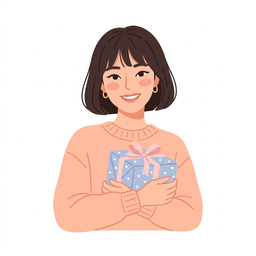
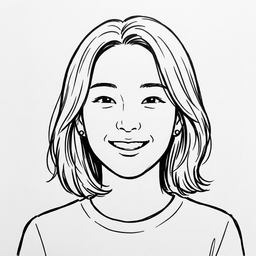
fix: 큐레이터 성별 적합성 검증 + Clair→Owen 교체
- 여자친구 선물 콘텐츠에 여성 큐레이터(Clair) 배정 오류 수정 → Owen(남성)으로 교체
- editorial 톤도 Owen 스타일로 수정
- orchestrator/theme-planner에 성별 적합성 규칙 추가:
  - 여자친구 선물 → 남성 큐레이터만
  - 남자친구 선물 → 여성 큐레이터만
  - 위반 시 자동 재배정

diff --git a/scripts/generate-curator-profiles.ts b/scripts/generate-curator-profiles.ts
@@ -35,7 +35,7 @@ const CURATORS: CuratorInfo[] = [
     gender: 'male',
     age: 'early 30s',
     personality: '꼼꼼한 리서처',
-    visualHint: 'neat short hair, glasses, smart casual outfit with a collared shirt, holding a tablet, analytical and organized look',
+    visualHint: 'neat short hair, wearing glasses, slight smile, clean-shaven',
   },
   {
     id: 'clair',
@@ -43,7 +43,7 @@ const CURATORS: CuratorInfo[] = [
     gender: 'female',
     age: 'mid 20s',
     personality: '센스있는 선물러',
-    visualHint: 'stylish bob hair, warm smile, wearing a soft knit sweater, holding a wrapped gift box, cheerful and fashionable',
+    visualHint: 'bob cut hair, bright smile, small earrings',
   },
   {
     id: 'james',
@@ -51,7 +51,7 @@ const CURATORS: CuratorInfo[] = [
     gender: 'male',
     age: 'early 40s',
     personality: '넉넉한 형/선배',
-    visualHint: 'well-groomed short hair, slight beard, wearing a navy blazer over turtleneck, confident and mature, warm expression',
+    visualHint: 'short hair, short beard, confident warm expression, mature look',
   },
   {
     id: 'hana',
@@ -59,7 +59,7 @@ const CURATORS: CuratorInfo[] = [
     gender: 'female',
     age: 'mid 30s',
     personality: '현실적 살림러',
-    visualHint: 'shoulder-length hair tied back, comfortable apron over casual clothes, holding a kitchen utensil, practical and friendly',
+    visualHint: 'hair tied back in ponytail, friendly natural smile',
   },
   {
     id: 'leo',
@@ -67,7 +67,7 @@ const CURATORS: CuratorInfo[] = [
     gender: 'male',
     age: 'late 20s',
     personality: '활동적인 행동파',
-    visualHint: 'athletic build, sporty short hair, wearing a hoodie and sneakers, energetic pose, holding a gym bag, active lifestyle',
+    visualHint: 'normal short hair, relaxed natural smile, casual everyday look',
   },
   {
     id: 'mina',
@@ -75,7 +75,7 @@ const CURATORS: CuratorInfo[] = [
     gender: 'female',
     age: 'early 30s',
     personality: '안목있는 디자이너',
-    visualHint: 'sleek long hair, minimalist outfit in black and white, wearing designer earrings, holding a coffee cup, sophisticated and artistic',
+    visualHint: 'long straight hair, minimal makeup, elegant and calm expression',
   },
   {
     id: 'owen',
@@ -83,7 +83,7 @@ const CURATORS: CuratorInfo[] = [
     gender: 'male',
     age: 'mid 30s',
     personality: '사려깊은 이야기꾼',
-    visualHint: 'gentle medium-length hair, wearing a cozy cardigan, holding a book, thoughtful expression, warm and literary atmosphere',
+    visualHint: 'medium wavy hair, gentle thoughtful smile, soft eyes',
   },
   {
     id: 'yuna',
@@ -91,7 +91,7 @@ const CURATORS: CuratorInfo[] = [
     gender: 'female',
     age: 'mid 20s',
     personality: '트렌드 리서처',
-    visualHint: 'trendy layered hair, wearing a cropped jacket, holding a smartphone, modern and energetic, social media savvy look',
+    visualHint: 'layered medium hair, playful smile, trendy bangs',
   },
 ]
 
@@ -102,7 +102,7 @@ async function generateProfile(curator: CuratorInfo): Promise<void> {
     return
   }
 
-  const prompt = `Create a character illustration profile picture of a Korean ${curator.gender}, ${curator.age}. ${curator.visualHint}. Style: modern flat illustration with soft pastel colors, clean lines, white background, portrait bust shot, friendly and approachable. No text, no letters, no words. Square composition.`
+  const prompt = `Simple black and white line drawing portrait of an ordinary everyday Korean ${curator.gender}, ${curator.age}. Natural Korean face: straight black hair, small nose, natural eyes, oval face. ${curator.visualHint}. Looking like someone you would see on a Korean street, not a model or celebrity. Very ordinary and approachable. Style: bold black ink lines on pure white background, minimal detail, hand-drawn sketch, Korean webtoon style. Head and shoulders only. Thick outlines, no shading, no gray, no color. No text. Square.`
 
   console.log(`  생성 중: ${curator.id} (${curator.name})...`)
 

diff --git a/components/collection/Editorial.tsx b/components/collection/Editorial.tsx
@@ -1,31 +1,55 @@
 import type { Editorial as EditorialType } from '@/lib/types'
+import type { CuratorProfile } from '@/lib/curators'
 
-export function Editorial({ editorial }: { editorial: EditorialType }) {
+export function Editorial({ editorial, curator }: { editorial: EditorialType; curator?: CuratorProfile | null }) {
   if (!editorial) return null
 
   return (
     <section aria-label="에디터 노트" className="mb-8">
       <div className="bg-surface rounded-3xl border border-border/50 p-6 shadow-md">
-        <span className="text-xs font-bold uppercase tracking-widest text-accent mb-3 block">
-          {editorial.eyebrow}
-        </span>
-        <div className="editorial-content space-y-3">
-          {editorial.body.map((paragraph, i) => (
-            <p key={i} className="text-sm text-text-secondary leading-relaxed">
-              {paragraph}
-            </p>
-          ))}
+        <div className={curator ? 'flex gap-5' : ''}>
+          {curator && (
+            <div className="shrink-0 hidden sm:flex flex-col items-center gap-2 pt-1">
+              <img
+                src={curator.image}
+                alt={curator.name}
+                className="w-16 h-16 rounded-full object-cover"
+              />
+              <span className="text-xs font-medium text-text-muted">{curator.name}</span>
+            </div>
+          )}
+          <div className="flex-1 min-w-0">
+            <div className="flex items-center gap-2 mb-3">
+              {curator && (
+                <img
+                  src={curator.image}
+                  alt={curator.name}
+                  className="w-8 h-8 rounded-full object-cover sm:hidden"
+                />
+              )}
+              <span className="text-xs font-bold uppercase tracking-widest text-accent">
+                {editorial.eyebrow}
+              </span>
+            </div>
+            <div className="editorial-content space-y-3">
+              {editorial.body.map((paragraph, i) => (
+                <p key={i} className="text-sm text-text-secondary leading-relaxed">
+                  {paragraph}
+                </p>
+              ))}
+            </div>
+            {editorial.pullQuote && (
+              <blockquote className="mt-5 pl-4 border-l-2 border-accent">
+                <p className="text-base text-text italic leading-relaxed">
+                  &ldquo;{editorial.pullQuote.text}&rdquo;
+                </p>
+                <cite className="mt-2 block text-xs text-text-muted not-italic">
+                  — {editorial.pullQuote.cite}
+                </cite>
+              </blockquote>
+            )}
+          </div>
         </div>
-        {editorial.pullQuote && (
-          <blockquote className="mt-6 pl-4 border-l-2 border-accent">
-            <p className="text-base text-text italic leading-relaxed">
-              &ldquo;{editorial.pullQuote.text}&rdquo;
-            </p>
-            <cite className="mt-2 block text-xs text-text-muted not-italic">
-              — {editorial.pullQuote.cite}
-            </cite>
-          </blockquote>
-        )}
       </div>
     </section>
   )

diff --git a/app/collection/[slug]/page.tsx b/app/collection/[slug]/page.tsx
@@ -13,6 +13,7 @@ import { ExitBottomSheet } from '@/components/recommendation/ExitBottomSheet'
 import { Breadcrumb } from '@/components/layout/Breadcrumb'
 import { getTagStyle } from '@/lib/tags'
 import { getOccasionColor } from '@/lib/occasion-colors'
+import { getCuratorProfile } from '@/lib/curators'
 
 type Props = { params: Promise<{ slug: string }> }
 
@@ -98,7 +99,7 @@ export default async function CollectionPage({ params }: Props) {
 
         <PageHeader collection={collection} occasionColor={getOccasionColor(collection.occasion)} />
         <TargetProfileSection targets={collection.targets} />
-        <Editorial editorial={collection.editorial} />
+        <Editorial editorial={collection.editorial} curator={collection.curator ? getCuratorProfile(collection.curator) : null} />
 
         <section aria-label="추천 상품 목록">
           <h2 className="text-lg font-bold text-text mb-4">추천 상품 TOP {collection.products.length}</h2>

diff --git a/content/collections/sentimental-girlfriend-20k-birthday.md b/content/collections/sentimental-girlfriend-20k-birthday.md
@@ -20,7 +20,7 @@ status: "published"
 datePublished: "2026-03-19"
 dateModified: "2026-03-19"
 heroSvg: "/svg/categories/unique.svg"
-curator: "clair"
+curator: "owen"
 products:
   - rank: 1
     name: "코코도르 퍼퓸 디퓨저 2p 세트"
@@ -138,14 +138,14 @@ targets:
     description: "매일 쓰는 머그컵이나 핸드크림처럼 실용성과 디자인을 모두 갖춘 선물을 선호합니다."
     icon: "star"
 editorial:
-  eyebrow: "Clair's Note"
+  eyebrow: "Owen's Note"
   body:
-    - "친한 친구 생일에 뭘 줄지 고민하다가 직접 써보고 괜찮았던 것들로 골랐어요. 2만원대라 부담 없으면서 받는 사람은 센스 있다고 느낄 아이템들이에요."
-    - "디퓨저와 입욕제는 본인이 사기엔 망설이지만 받으면 기분 좋은 대표적인 선물이에요. 핸드크림 세트는 매일 쓰니까 실용성도 챙길 수 있어요."
-    - "1위 코코도르 디퓨저 2p 세트는 가격 대비 향이 오래 가고, 선물 포장이 이미 되어 있어서 가장 먼저 추천합니다."
+    - "여자친구 생일을 앞두고 고민이 많았습니다. 비싼 것보다 마음이 담긴 선물이 더 오래 기억에 남더라고요. 2만원대로 그 마음을 전할 수 있는 아이템을 골랐습니다."
+    - "디퓨저와 입욕제는 직접 사기엔 망설이지만 받으면 기분 좋은 대표적인 선물입니다. 핸드크림 세트는 매일 쓰이니까 실용성도 챙길 수 있어요."
+    - "1위 코코도르 디퓨저 2p 세트는 가격 대비 향이 오래 가고, 선물 포장이 되어 있어서 가장 먼저 추천합니다."
   pullQuote:
-    text: "받는 순간 표정이 달라지는 선물이 진짜 좋은 선물이에요"
-    cite: "Clair"
+    text: "좋은 선물은 가격이 아니라 고른 시간에 담긴 마음이더라고요"
+    cite: "Owen"
 faqs:
   - question: "여자친구 생일선물 2만원대로 뭐가 좋을까요?"
     answer: "감성적인 선물을 좋아한다면 코코도르 디퓨저 세트(19,850원)나 에페이오스 배쓰밤 선물세트(31,400원)를 추천합니다. 실용적인 걸 선호하면 딥퍼랑스 핸드크림 듀오 세트(28,000원)가 좋아요."

diff --git a/.claude/skills/gift-orchestrator/SKILL.md b/.claude/skills/gift-orchestrator/SKILL.md
@@ -13,6 +13,15 @@
 - **이미지 필수**: image가 빈 문자열인 상품은 최종 결과에 포함 불가
 - **블라인드 = 커뮤니티**: evidence에서 블라인드 출처는 type: "community"로 분류 (SNS 아님)
 - **사람 개입 없이 자동 해결**: 문제 발견 시 사용자에게 묻지 말고 아래 워크플로우대로 자동 처리
+- **큐레이터-콘텐츠 성별 적합성 필수**: 아래 규칙 참조
+
+## 큐레이터 배정 성별 규칙
+선물 대상의 성별과 큐레이터의 성별 조합이 자연스러워야 한다:
+- "여자친구 선물" → 남성 큐레이터만 배정 (Eric, James, Leo, Owen)
+- "남자친구 선물" → 여성 큐레이터만 배정 (Clair, Hana, Mina, Yuna)
+- "부모님/직장동료/친구 선물" → 성별 무관
+- 콘텐츠의 대상 태그(여자친구, 남자친구)와 큐레이터 성별이 같으면 FAIL → 자동으로 적합한 큐레이터로 재배정
+- editorial 톤: 큐레이터가 선물 주는 사람 입장이므로, "내 여자친구에게" 또는 "내 남자친구에게" 등 자연스러운 관계가 드러나야 함
 
 ## 실행 순서
 1. gift-theme-planner → 테마 기획 + 큐레이터 배정

diff --git a/.claude/projects/-Users-osomahong-Documents-00-project-17_gift_blog/memory/feedback_curator_gender.md b/.claude/projects/-Users-osomahong-Documents-00-project-17_gift_blog/memory/feedback_curator_gender.md
@@ -1,0 +1,15 @@
+---
+name: feedback_curator_gender
+description: 큐레이터 성별과 선물 대상 성별의 적합성 검증 필수
+type: feedback
+---
+
+여성 큐레이터가 "여자친구 선물"을 추천하면 어색하다. 큐레이터는 선물 주는 사람 입장이므로 대상과의 관계가 자연스러워야 한다.
+
+**Why:** Clair(여성)가 "여자친구 생일 선물"을 추천하면 동성 연인이 아닌 이상 부자연스럽다. 사용자가 콘텐츠 신뢰도에 의문을 가질 수 있다.
+
+**How to apply:**
+- "여자친구 선물" → 남성 큐레이터만 (Eric, James, Leo, Owen)
+- "남자친구 선물" → 여성 큐레이터만 (Clair, Hana, Mina, Yuna)
+- "부모님/직장/친구" → 성별 무관
+- 콘텐츠 생성 시 자동 검증, 위반 시 자동 재배정

diff --git a/.claude/skills/gift-theme-planner/SKILL.md b/.claude/skills/gift-theme-planner/SKILL.md
@@ -5,6 +5,12 @@
 ## 입력
 - persona, interest, budget, occasion 조합
 
+## 큐레이터 배정 성별 규칙
+- "여자친구 선물" 콘텐츠 → 남성 큐레이터만 (Eric, James, Leo, Owen)
+- "남자친구 선물" 콘텐츠 → 여성 큐레이터만 (Clair, Hana, Mina, Yuna)
+- "부모님/직장동료/친구" → 성별 무관
+- 위반 시 자동으로 적합한 큐레이터로 교체
+
 ## 작업
 1. slug 생성: `{interest}-{ageGroup}-{gender}-{budget}-{occasion}` 형식
 2. 태그 3~5개 선정 (아래 표준 태그에서만 선택, 새 태그 생성 최소화)
